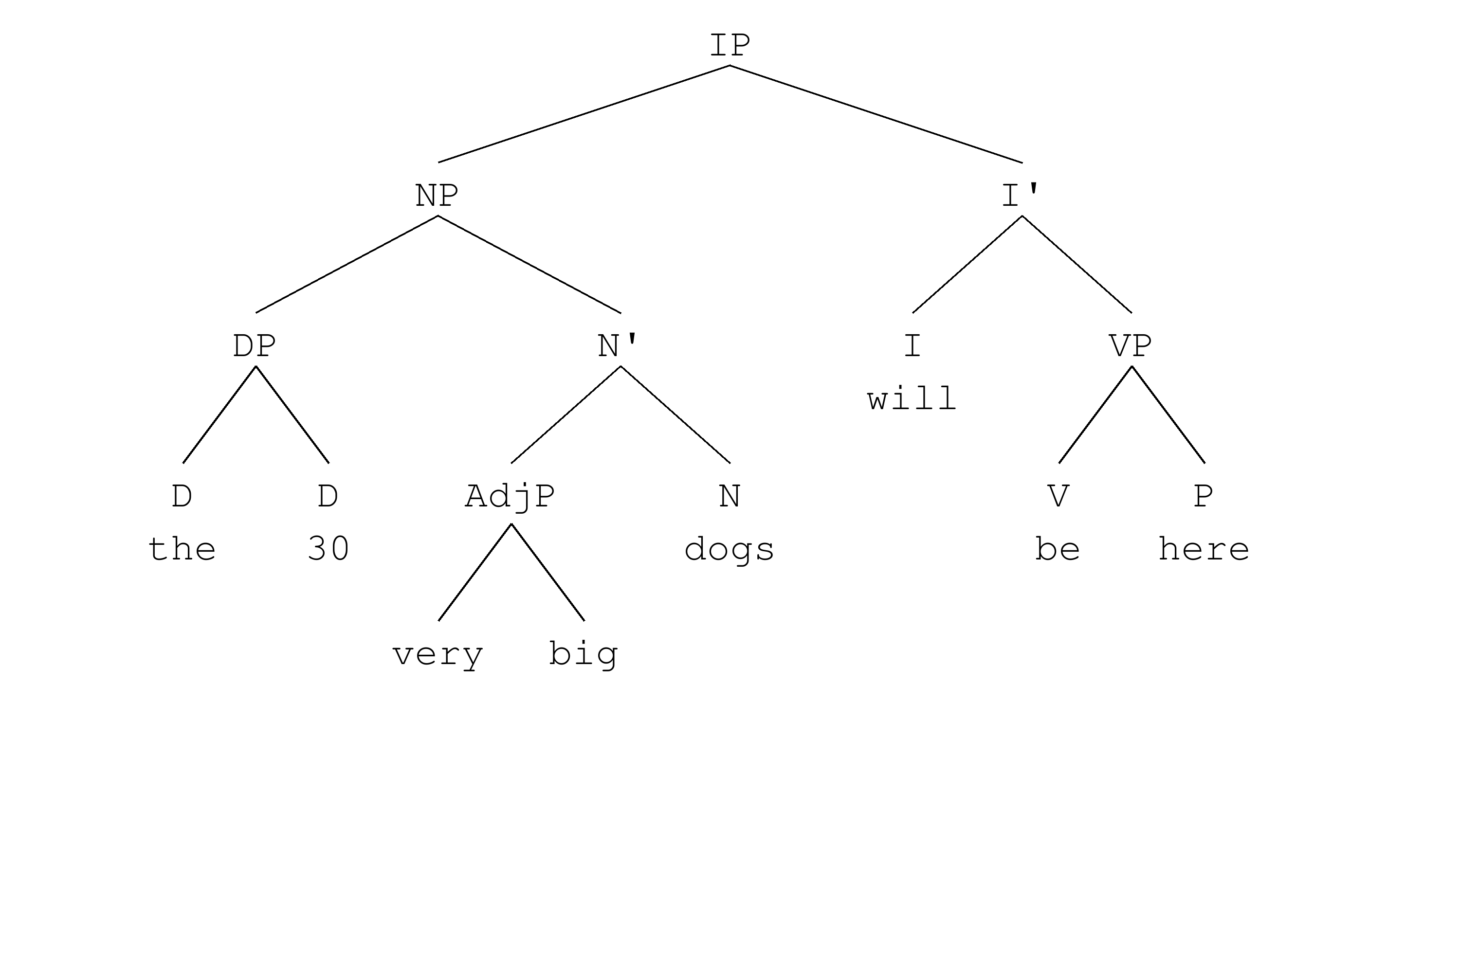
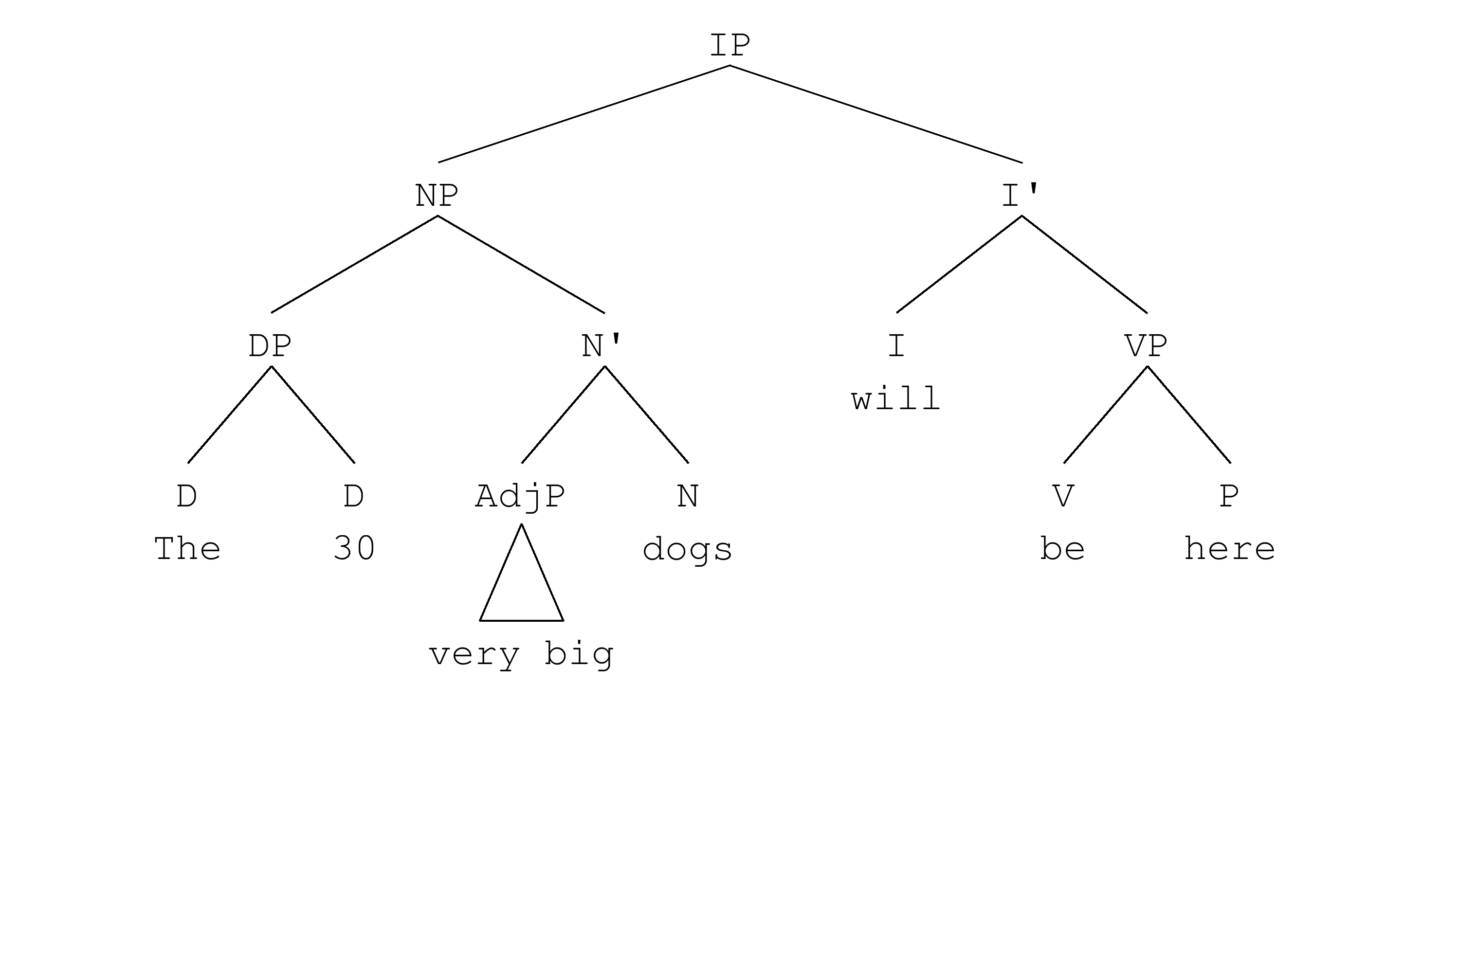
Add triangle to example sentence / image

diff --git a/tree_utils.py b/tree_utils.py
@@ -18,7 +18,7 @@ sample = """[IP
    [NP 
         [DP [D the] [D 30]]
         [N'
-            [AdjP very big]
+            <AdjP very big>
             [N dogs]]]
    [I'
         [I will]
